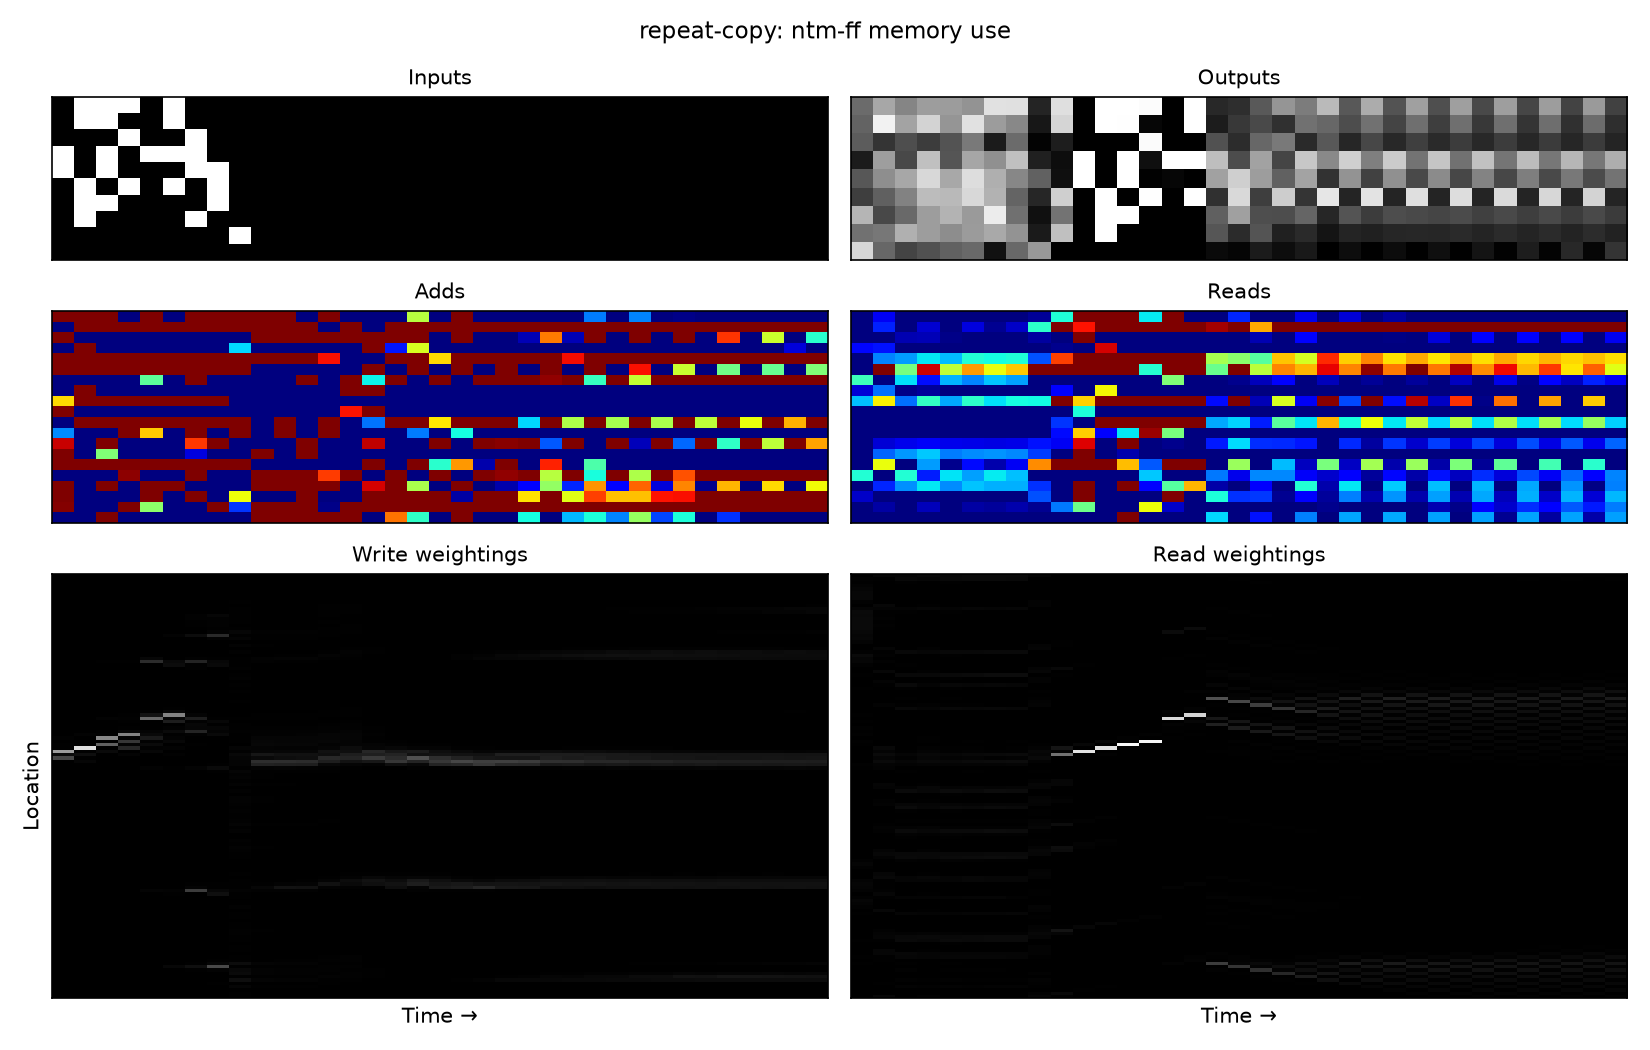
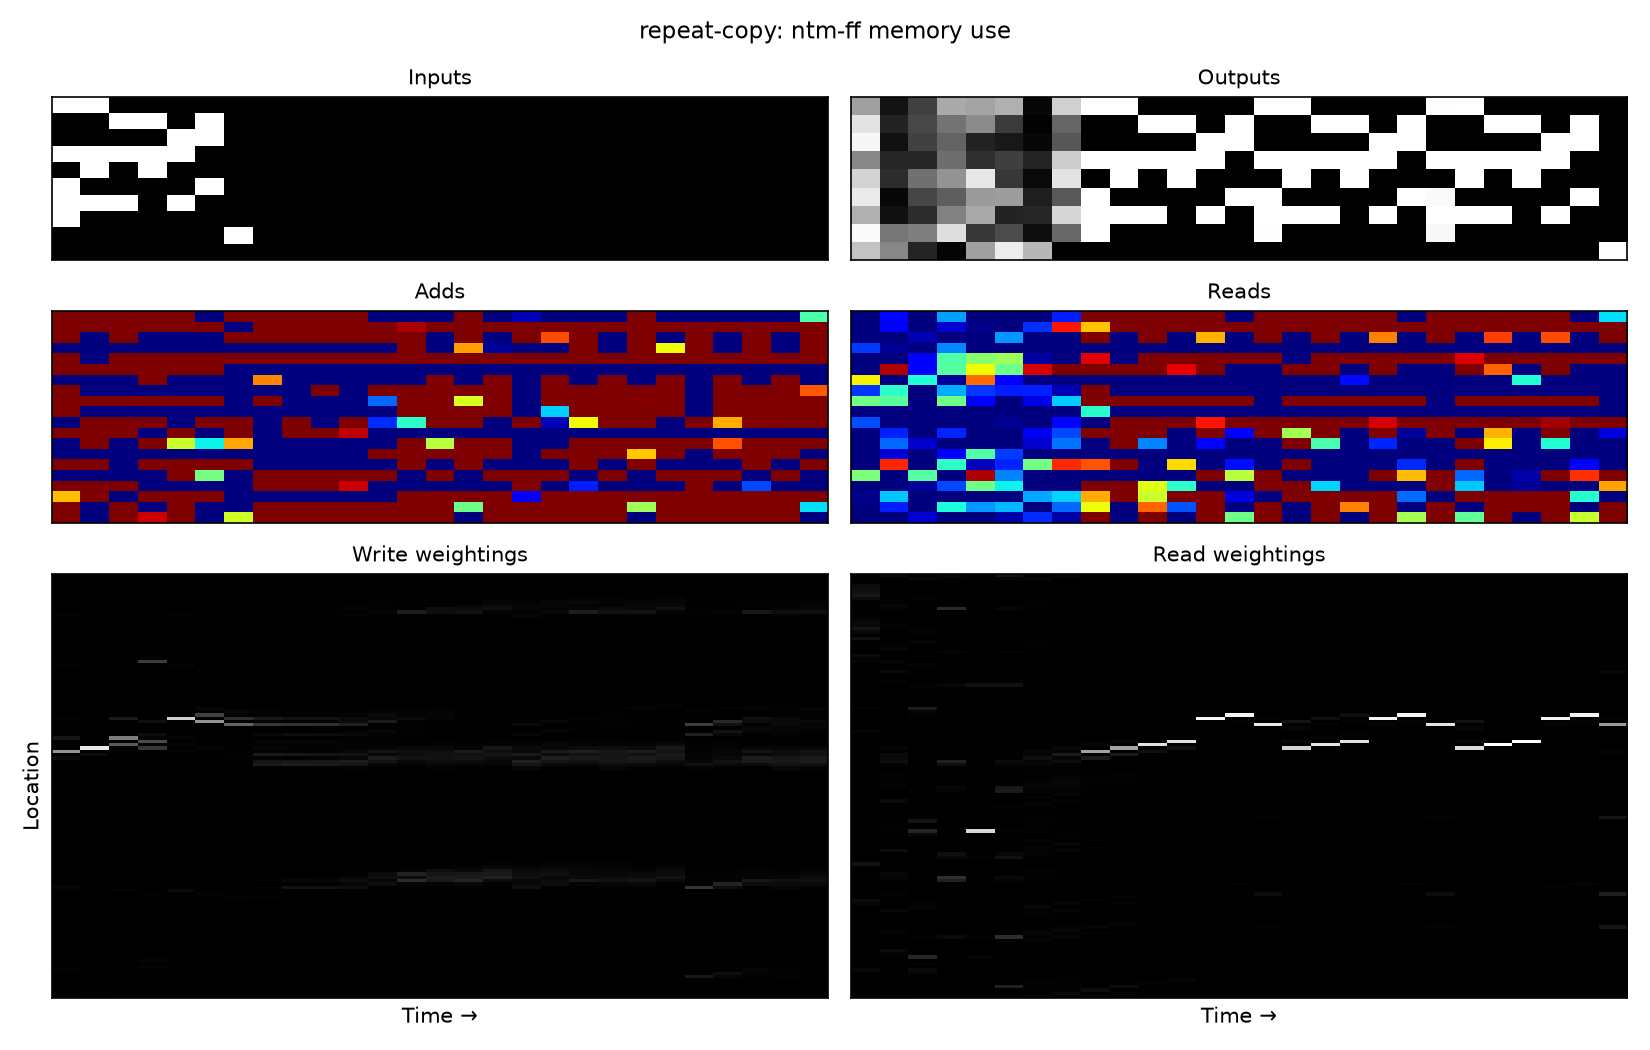
Use the two addressing priors on repeat copy, and log the spread
Repeat copy needs a head to sweep one block of memory R times, which
means shifting; a diffuse starting weighting and a neutral interpolation
gate push the controller towards content lookup instead. Pinning the
initial weighting and biasing the gate towards the previous one is worth
20 bits over 4 seeds at 4,000 updates (156 against 176). Both knobs
existed already and nothing used them.

Logs now carry the median and the worst sequence alongside the mean. At
one sequence per update the mean is dominated by a rare heavy tail: a
repeat-copy run whose median was 0.15 bits was reporting means of 60-150,
which read as divergence when it had in fact solved the task.

diff --git a/src/train.py b/src/train.py
@@ -161,7 +161,7 @@ def train(config: TrainConfig):
 
     os.makedirs(os.path.dirname(config.log_path), exist_ok=True)
     record_run(config, device, model.num_parameters())
-    log_lines = ["sequences,cost_bits"]
+    log_lines = ["sequences,cost_bits,median_bits,max_bits"]
     best_cost = float("inf")
     costs = []
     start = time.time()
@@ -187,16 +187,23 @@ def train(config: TrainConfig):
 
         if step % log_every_steps == 0:
             sequences = step * config.batch_size
-            cost = captured.average_cost() if captured else torch.stack(costs).mean().item()
+            if captured:
+                # a captured graph cannot sort, so it tracks the worst sequence rather than the median
+                cost, worst = captured.average_cost()
+                middle = ""
+            else:
+                window = torch.stack(costs)
+                cost, worst = window.mean().item(), window.max().item()
+                middle = f"{window.median().item():.4f}"
             costs = []
-            log_lines.append(f"{sequences},{cost:.4f}")
+            log_lines.append(f"{sequences},{cost:.4f},{middle},{worst:.4f}")
             save_log(log_lines, config.log_path)
             save_checkpoint(model, config.checkpoint_path)
             if cost < best_cost:  # training can drift away from a good solution; keep the best one
                 best_cost = cost
                 save_checkpoint(model, config.best_checkpoint_path)
             minutes = (time.time() - start) / 60
-            print(f"sequences {sequences:>9,}  cost (bits) {cost:6.2f}  {minutes:5.1f} min")
+            print(f"sequences {sequences:>9,}  cost (bits) {cost:6.2f}  worst {worst:7.2f}  {minutes:5.1f} min")
 
     return model
 

diff --git a/src/graphs.py b/src/graphs.py
@@ -27,6 +27,7 @@ class CapturedStep:
 
         # Filled in by every graph, read at log time, so nothing has to wait on the GPU per step
         self.cost_total = torch.zeros((), device=device)
+        self.cost_max = torch.zeros((), device=device)
         self.sequences = torch.zeros((), device=device)
 
         self.graphs, self.buffers = {}, {}
@@ -89,9 +90,15 @@ class CapturedStep:
             buffer.copy_(value, non_blocking=True)
         self.graphs[timesteps].replay()
 
-    def average_cost(self) -> float:
-        """Mean cost in bits since the last call. Reads from the GPU, so call it at log time."""
+    def average_cost(self):
+        """Mean and worst cost in bits since the last call. Reads from the GPU: call it at log time.
+
+        The worst is worth having: with one sequence per update the mean is dominated by a rare
+        heavy tail, which can make a converged run look as though it has diverged.
+        """
         average = (self.cost_total / self.sequences.clamp(min=1)).item()
+        worst = self.cost_max.item()
         self.cost_total.zero_()
+        self.cost_max.zero_()
         self.sequences.zero_()
-        return average
+        return average, worst

diff --git a/src/models/build.py b/src/models/build.py
@@ -23,8 +23,14 @@ SETTINGS = {
         "lstm": dict(hidden_size=256, num_layers=3, learning_rate=3e-5),  # Table 3
     },
     "repeat-copy": {
-        "ntm-ff": dict(heads=1, controller_size=100, learning_rate=1e-4),  # Table 1
-        "ntm-lstm": dict(heads=1, controller_size=100, learning_rate=1e-4),  # Table 2
+        # initial_focus and gate_bias are ours, not the paper's. Repeat copy needs the head to
+        # sweep one block of memory R times, which means shifting; a diffuse starting weighting
+        # and a neutral interpolation gate push the controller towards content lookup instead.
+        # Measured over 4 seeds at 4,000 updates they are worth 20 bits (156 against 176).
+        "ntm-ff": dict(heads=1, controller_size=100, learning_rate=1e-4,
+                       initial_focus=True, gate_bias=-2.0),  # Table 1
+        "ntm-lstm": dict(heads=1, controller_size=100, learning_rate=1e-4,
+                         initial_focus=True, gate_bias=-2.0),  # Table 2
         "lstm": dict(hidden_size=512, num_layers=3, learning_rate=3e-5),  # Table 3: 3 x 512 here
     },
 }
